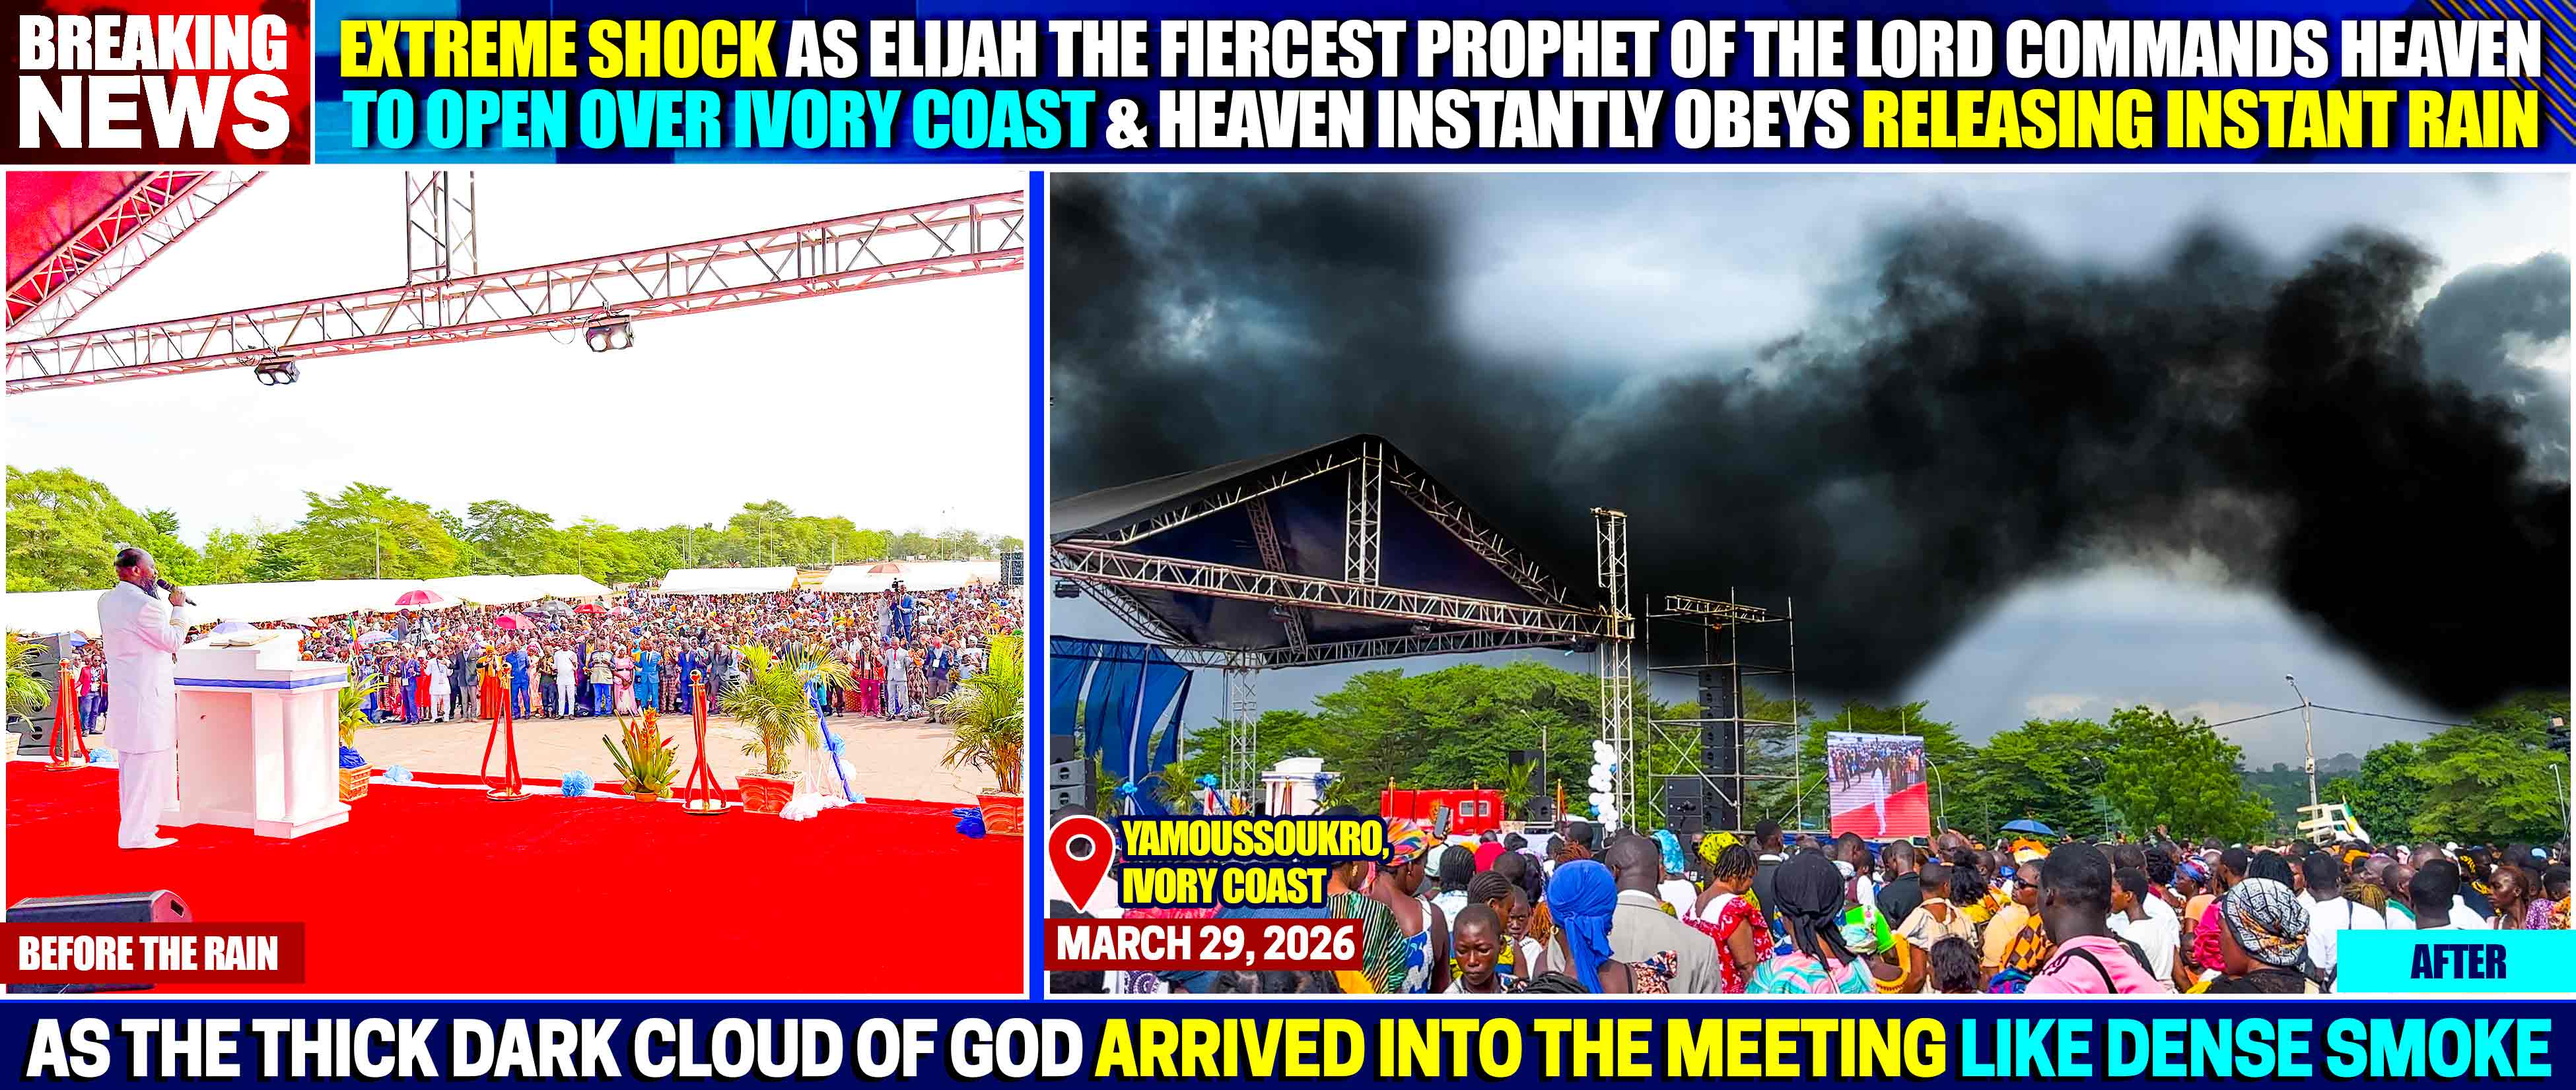
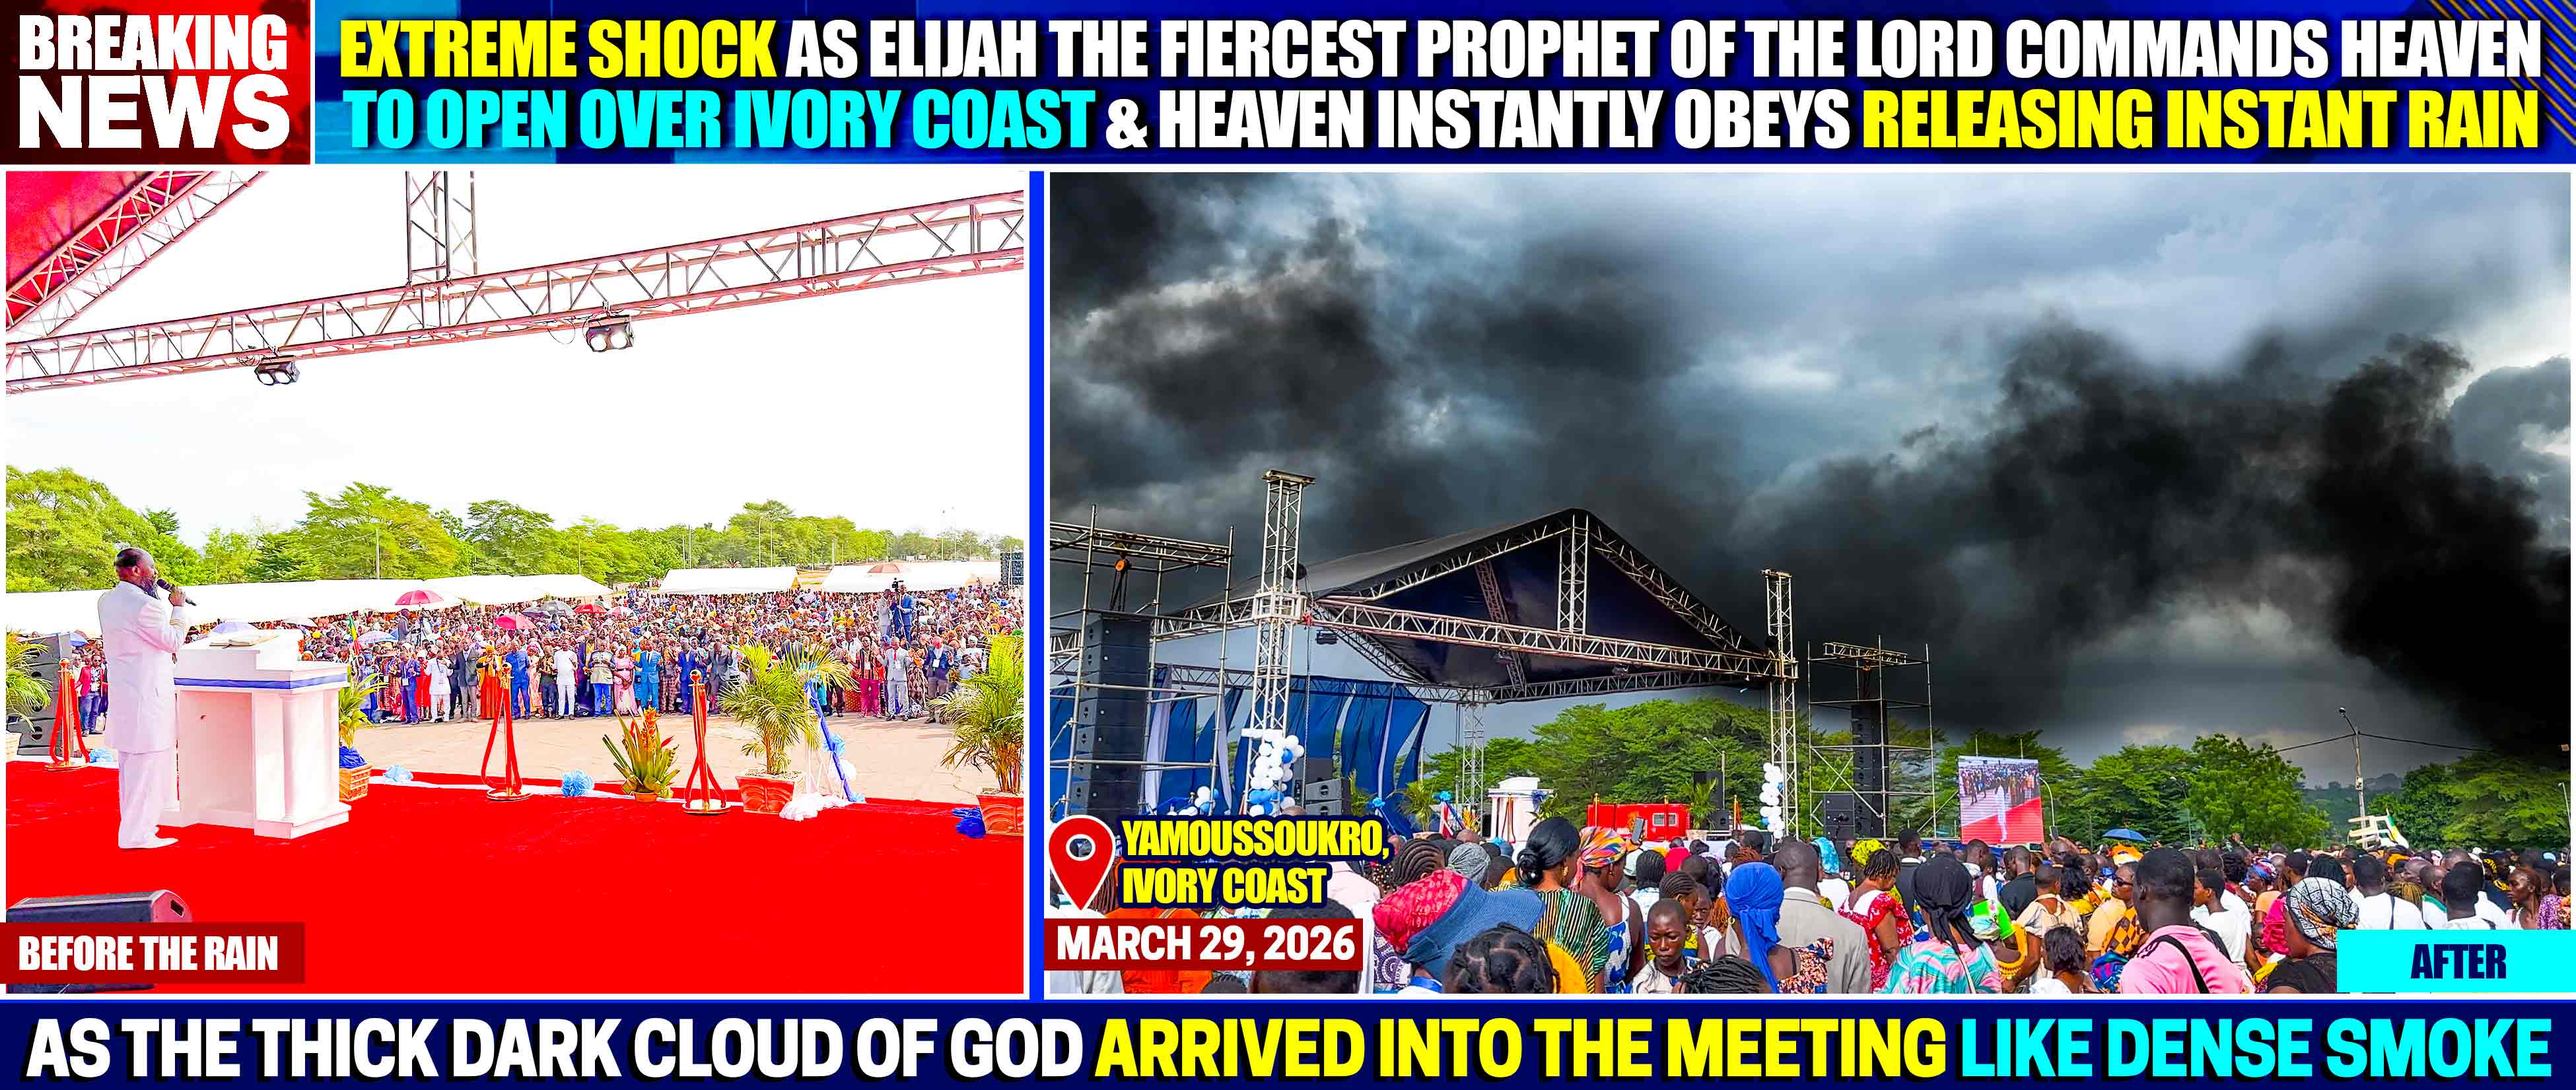
updated

diff --git a/index.html b/index.html
@@ -9,8 +9,7 @@
 <body>
     <div class="slideshow-container">
 
-<img class="slideshow" src= "https://pub-9f92551086574e82abebdc7b9c83cf92.r2.dev/Abidjan%202026/Healing%20Service/1.%20Rain/Smoke/Smoke-1.jpg" alt="Unstable internet, please refresh">
-<img class="slideshow" src= "https://pub-9f92551086574e82abebdc7b9c83cf92.r2.dev/Abidjan%202026/Healing%20Service/1.%20Rain/Smoke/Smoke.jpg" alt="Unstable internet, please refresh">
+<img class="slideshow" src= "https://pub-9f92551086574e82abebdc7b9c83cf92.r2.dev/Abidjan%202026/Healing%20Service/1.%20Rain/1.%20Exact%20moment/0.-Exact-Moment-GOD-came-down-in-a-storm.jpg" alt="Unstable internet, please refresh">
 
 <img class="slideshow" src= "https://pub-9f92551086574e82abebdc7b9c83cf92.r2.dev/Abidjan%202026/Healing%20Service/1.%20Rain/1.%20Exact%20moment/0.-Exact-Moment-GOD-came-down-in-a-storm.jpg" alt="Unstable internet, please refresh">
 <img class="slideshow" src= "https://pub-9f92551086574e82abebdc7b9c83cf92.r2.dev/Abidjan%202026/Healing%20Service/1.%20Rain/1.%20Exact%20moment/1.-Exact-Moment-GOD-came-down-in-a-storm.jpg" alt="Unstable internet, please refresh">
